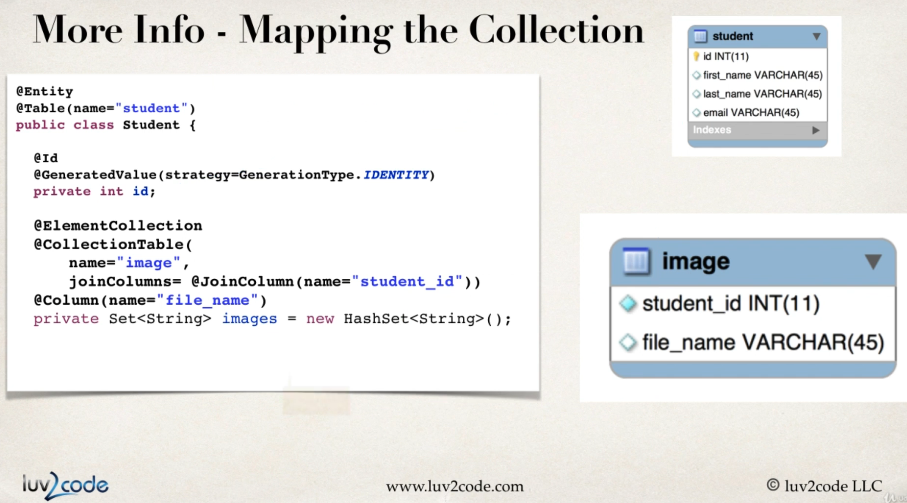
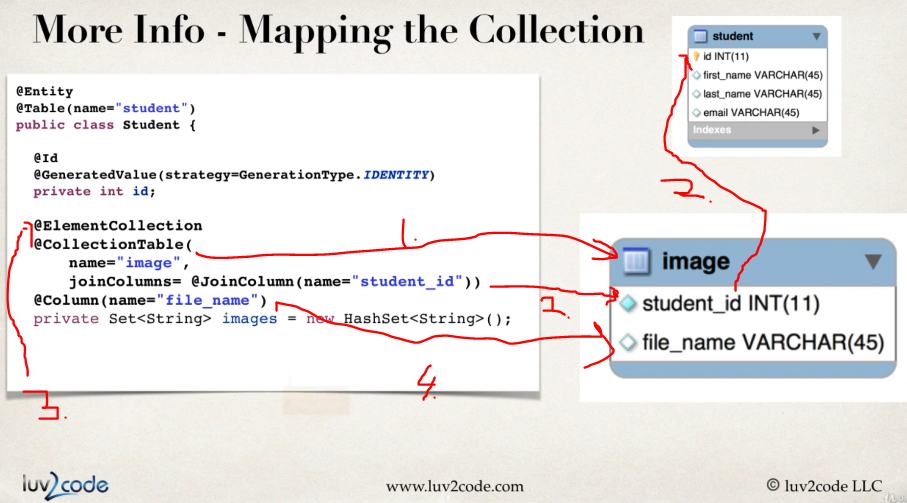
proceeded

diff --git a/Hibernate Advanced Development Techniques/Section 02/README.md b/Hibernate Advanced Development Techniques/Section 02/README.md
@@ -117,9 +117,116 @@ session.getTransaction().commit();
 
 - We can see the mapped **Student** to multiple **Images** in the **Collection** (collection are mapped in separate table!).
 
-<img src="runApp.PNG"  alt="hibernate course" width="500"/>
-
 # Mapping Sets - Going Deep!
 
+<img src="mappingCollectionDeepper.PNG"  alt="hibernate course" width="500"/>
+
+1. `name=image` What table we are using.
+2. `joinColumns = @JoinColumn(name="student_id")` Where to join on. It hooks up in `student` table for `id`.
+3. `@ElementCollection` Tells that we are mapping **collection**.
+4. `@Column(name="file_name")` The column where we are mapping on.
+
+<img src="ElementCollectionMore.PNG"  alt="hibernate course" width="500"/>
+
+1. `@ElementCollection` can be used for define **relationships**.
+    - This can be used for the **One-to-many** to the `@Embeddable` **object**.
+    - This can be used for the **One-to-many** to the ` **object**.
+        - These can be **Integer**, **Double** etc...
+2. Example here is using `Set` of `String`:s.
+
+<img src="comparingOneToManyInTheElementsCollection.PNG"  alt="hibernate course" width="500"/>
+
+1. This behaves like **One-to-many**, but with the **collection** of the simple/basic objects.
+
+<img src="limitationsOnTheElementCollection.PNG"  alt="hibernate course" width="500"/>
+
+- Since these are included into the parent objects, they have some limitations.
+
+1. You cannot perform any operations on these **independently**.
+2. No support for the **cascades**!
+    - These are **ALWAYS** persisted, merged or removed when parent object is receiving the operation.
+
+<img src="comparingOneToManyAndElementCollecion.PNG"  alt="hibernate course" width="500"/>
+
+1. For **simple** cases!
+2. For more **fine-grained** control!
+
+# Mapping Sets - Project Set Up.
+
+<img src="simpleMavenArchetype.PNG"  alt="hibernate course" width="500"/>
+
+1. We will use the `maven-archetype-quickstart`.
+
+- We are having the following dependencies:
+
+```
+<!-- Hibernate's core ORM functionality -->
+		<dependency>
+			<groupId>org.hibernate</groupId>
+			<artifactId>hibernate-core</artifactId>
+			<version>5.3.6.Final</version>
+		</dependency>
+
+<!-- JDBC driver for MySQL -->
+		<dependency>
+			<groupId>mysql</groupId>
+			<artifactId>mysql-connector-java</artifactId>
+			<version>8.0.12</version>
+		</dependency>
+
+<!-- Support for Java 9/10/11 -->
+		<dependency>
+			<groupId>javax.xml.bind</groupId>
+			<artifactId>jaxb-api</artifactId>
+			<version>2.3.0</version>
+		</dependency>
+
+		<dependency>
+			<groupId>com.sun.xml.bind</groupId>
+			<artifactId>jaxb-core</artifactId>
+			<version>2.3.0</version>
+		</dependency>
+
+		<dependency>
+			<groupId>com.sun.xml.bind</groupId>
+			<artifactId>jaxb-impl</artifactId>
+			<version>2.3.0</version>
+		</dependency>
+
+		<dependency>
+			<groupId>com.sun.activation</groupId>
+			<artifactId>javax.activation</artifactId>
+			<version>1.2.0</version>
+		</dependency>
+```
 
 
+- We are using following **SQL** script for the tables:
+
+```
+CREATE DATABASE  IF NOT EXISTS `hb_student_tracker`;
+USE `hb_student_tracker`;
+--
+-- Table structure for tables `student` and `image`
+--
+
+DROP TABLE IF EXISTS `student`;
+
+CREATE TABLE `student` (
+  `id` int(11) NOT NULL AUTO_INCREMENT,
+  `first_name` varchar(45) DEFAULT NULL,
+  `last_name` varchar(45) DEFAULT NULL,
+  `email` varchar(45) DEFAULT NULL,
+  PRIMARY KEY (`id`)
+) ENGINE=InnoDB AUTO_INCREMENT=101 DEFAULT CHARSET=latin1;
+
+DROP TABLE IF EXISTS `image`;
+
+CREATE TABLE `image` (
+  `student_id` int(11) NOT NULL,
+  `file_name` varchar(45) DEFAULT NULL
+) ENGINE=InnoDB DEFAULT CHARSET=latin1;
+```
+
+
+- Tee loppuun

diff --git a/Java Persistence Hibernate and JPA Fundamentals/Section 05/README.md b/Java Persistence Hibernate and JPA Fundamentals/Section 05/README.md
@@ -23,11 +23,19 @@ Getting Started with JPA.
 
 <img src="whyUseJPA.PNG"  alt="hibernate course" width="600"/>
 
-- You could ask yourself what is the role of **JPA** if to **Hibernate** provides all the functions?
-    - If you **JPA** as interface provider, you could easily change to another vendor!
+- You could ask yourself what is the role of **JPA**, if the **Hibernate** provides all the functions already?
+    - If you implement the **JPA** as **interface provider**, you could easily change to another vendor, when there is need to change underlying **JPA provider**!
+		- Since they follow same **marking** style.
 
-1. These vendors cans be seen here!
-    - **DataNucleus** is a **JPA** provider!
+1. These are some vendors, that can be seen here!
+2. There can be **DataNucleus** as **JPA** provider! Keep going **Kide systems**-
+	- [Home Page](https://www.datanucleus.org/).
+
+
+> [!IMPORTANT]  
+> **Kide** thought me of practical usage of JPA(DataNucleus).
+
+<img src="datanucleusInKideAriBest.jpg"  alt="hibernate course" width="500"/>
 
 # Hibernate as JPA Provider.
 
